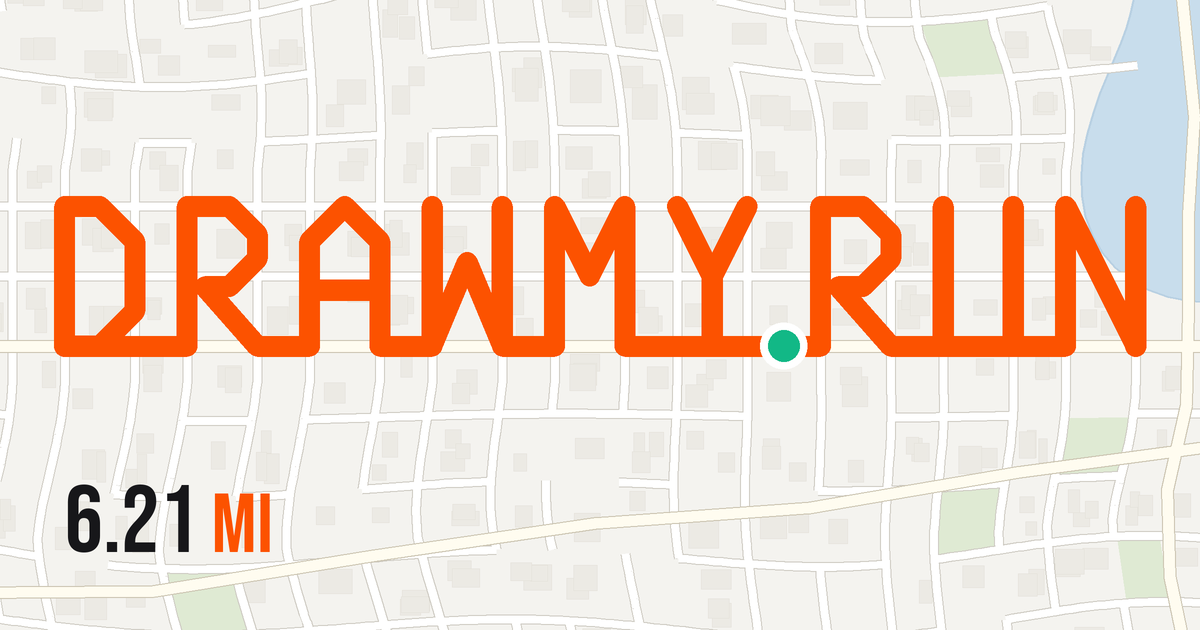
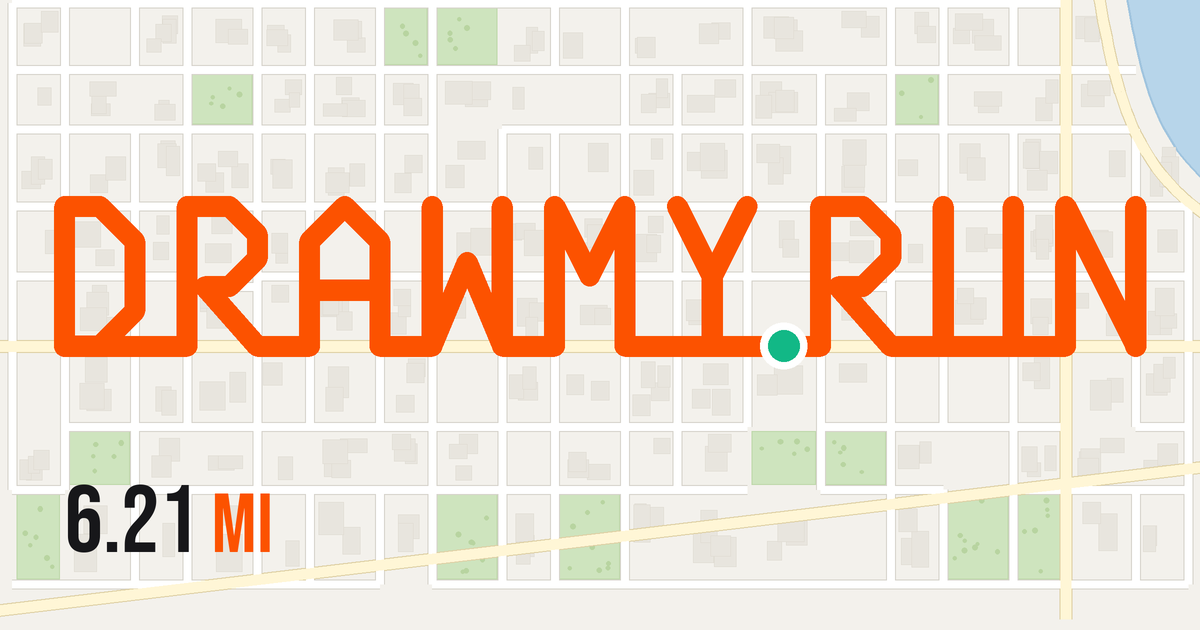
Social card: a straight street map with the route on streets, the GIF drawn from the start at 25 fps
The card's town is drawn the way a street map is: straight streets on
the letters' own rhythm (no bent plane), cross streets that run right
across, blocks of varying depth beyond the letters, some streets ending
at a T, a bay in the corner with a road along its shore, a diagonal
avenue, more parks (a couple two blocks long, with trees), and building
footprints in the blocks. A proper street runs under every stretch of
the route, the letters' diagonals and the Y's stem included, and the
middle street jogs up onto the crossbar of each R and the A, so the
line is on streets from start to finish.

The GIF opens on the finished card (held three seconds), melts the line
away, then draws the route in from the very start, seventy-two frames
at 40 ms, the length counting up, the green dot coming in last as the
period, and round again. The card's alt text now says what it shows.

Claude-Session: https://claude.ai/code/session_01Dmg3qgF2RMqA8VqrgFUq5h

diff --git a/web/src/app/layout.tsx b/web/src/app/layout.tsx
@@ -28,8 +28,8 @@ export const metadata: Metadata = {
     // everything else shows its first frame, which is the finished card. The
     // still comes second for anything that wants one.
     images: [
-      { url: "/og.gif", width: 1200, height: 630, type: "image/gif", alt: "drawmy.run: the word RUN drawn on the streets of San Francisco by a 6 mile run" },
-      { url: "/og.png", width: 1200, height: 630, type: "image/png", alt: "drawmy.run: the word RUN drawn on the streets of San Francisco by a 6 mile run" },
+      { url: "/og.gif", width: 1200, height: 630, type: "image/gif", alt: "drawmy.run: DRAWMY.RUN drawn on the streets of a town by a 6.21 mile run" },
+      { url: "/og.png", width: 1200, height: 630, type: "image/png", alt: "drawmy.run: DRAWMY.RUN drawn on the streets of a town by a 6.21 mile run" },
     ],
   },
   twitter: {
